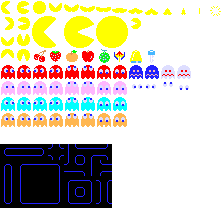
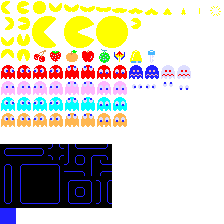
Implemented basic code for board drawing

Changed region(s): [[0.0, 0.9062, 0.0938, 1.0]]

diff --git a/PacmanWars/Game1.cs b/PacmanWars/Game1.cs
@@ -1,4 +1,5 @@
-using Microsoft.Xna.Framework;
+using System.IO;
+using Microsoft.Xna.Framework;
 using Microsoft.Xna.Framework.Graphics;
 using Microsoft.Xna.Framework.Input;
 
@@ -9,14 +10,23 @@ namespace PacmanWars
     /// </summary>
     public class Game1 : Game
     {
+        public static int TileSize = 32;
+
         private GraphicsDeviceManager _graphics;
         private SpriteBatch _spriteBatch;
-        
+
+        private Texture2D _spriteSheet;
+        private Board _board;
+
         public Game1()
         {
             _graphics = new GraphicsDeviceManager(this);
             Content.RootDirectory = "Content";
         }
+
+        public SpriteBatch SpriteBatch => _spriteBatch;
+        public Texture2D SpriteSheet => _spriteSheet;
+        public Board Board => _board;
 
         /// <summary>
         /// Allows the game to perform any initialization it needs to before starting to run.
@@ -40,7 +50,9 @@ namespace PacmanWars
             // Create a new SpriteBatch, which can be used to draw textures.
             _spriteBatch = new SpriteBatch(GraphicsDevice);
 
-            // TODO: use this.Content to load your game content here
+            _spriteSheet = Content.Load<Texture2D>("ss");
+
+            LoadLevel();
         }
 
         /// <summary>
@@ -73,11 +85,65 @@ namespace PacmanWars
         /// <param name="gameTime">Provides a snapshot of timing values.</param>
         protected override void Draw(GameTime gameTime)
         {
-            GraphicsDevice.Clear(Color.CornflowerBlue);
+            GraphicsDevice.Clear(Color.Black);
 
             // TODO: Add your drawing code here
 
             base.Draw(gameTime);
+        }
+
+        private void LoadLevel()
+        {
+            string[] file = File.ReadAllLines($@"{Content.RootDirectory}\board.txt");
+
+            int width = file[0].Length;
+            int height = file.Length;
+            char[,] boardMatrix = new char[width, height];
+
+            for (int y = 0; y < height; y++)
+            {
+                for (int x = 0; x < width; x++)
+                {
+                    // Wall             'W'
+                    // "Pac-Dot"        'D'
+                    // "Power Pellet"   'P'
+                    // Player 1         '1'
+                    // Player 2         '2'
+                    // Enemy Spawn      'S'
+
+                    switch (file[y][x])
+                    {
+                        case 'W':
+                            boardMatrix[x, y] = 'W';
+                            break;
+                        case 'D':
+                            boardMatrix[x, y] = ' ';
+                            break;
+                        case 'P':
+                            boardMatrix[x, y] = ' ';
+                            break;
+                        case '1':
+                            boardMatrix[x, y] = ' ';
+                            break;
+                        case '2':
+                            boardMatrix[x, y] = ' ';
+                            break;
+                        case 'S':
+                            boardMatrix[x, y] = ' ';
+                            break;
+                        default:
+                            boardMatrix[x, y] = ' ';
+                            break;
+                    }
+                }
+            }
+
+            _board = new Board(this, width, height, boardMatrix);
+            Components.Add(_board);
+
+            _graphics.PreferredBackBufferWidth = width * TileSize;
+            _graphics.PreferredBackBufferHeight = (height + 1) * TileSize;
+            _graphics.ApplyChanges();
         }
     }
 }

diff --git a/PacmanWars/Board.cs b/PacmanWars/Board.cs
@@ -1,0 +1,54 @@
+using System.Collections.Generic;
+using Microsoft.Xna.Framework;
+using Microsoft.Xna.Framework.Graphics;
+
+namespace PacmanWars
+{
+    public class Board : DrawableGameComponent
+    {
+        private Game1 _game;
+        private SpriteBatch _batch;
+
+        private Texture2D _spriteSheet;
+        private int _width, _heigth;
+        private char[,] _matrix;
+
+        public Board(Game1 game, int width, int height, char[,] matrix) : base(game)
+        {
+            _game = game;
+            _batch = game.SpriteBatch;
+
+            _spriteSheet = game.SpriteSheet;
+            _width = width;
+            _heigth = height;
+            _matrix = matrix;
+        }
+
+        public char this[int x, int y] => _matrix[x, y];
+
+        public override void Draw(GameTime gameTime)
+        {
+            _batch.Begin();
+
+            for (int x = 0; x < _width; x++)
+            {
+                for (int y = 0; y < _heigth; y++)
+                {
+                    Rectangle outRectangle = new Rectangle(new Point(x  * Game1.TileSize, y * Game1.TileSize), new Point(Game1.TileSize));
+
+                    if (_matrix[x, y] == 'W')
+                    {
+                        _batch.Draw(
+                            texture: _spriteSheet,
+                            destinationRectangle: outRectangle,
+                            sourceRectangle: new Rectangle(0, 13 * 16, 16, 16),
+                            color: Color.White
+                        );
+                    }
+                }
+            }
+
+            _batch.End();
+        }
+    }
+}
